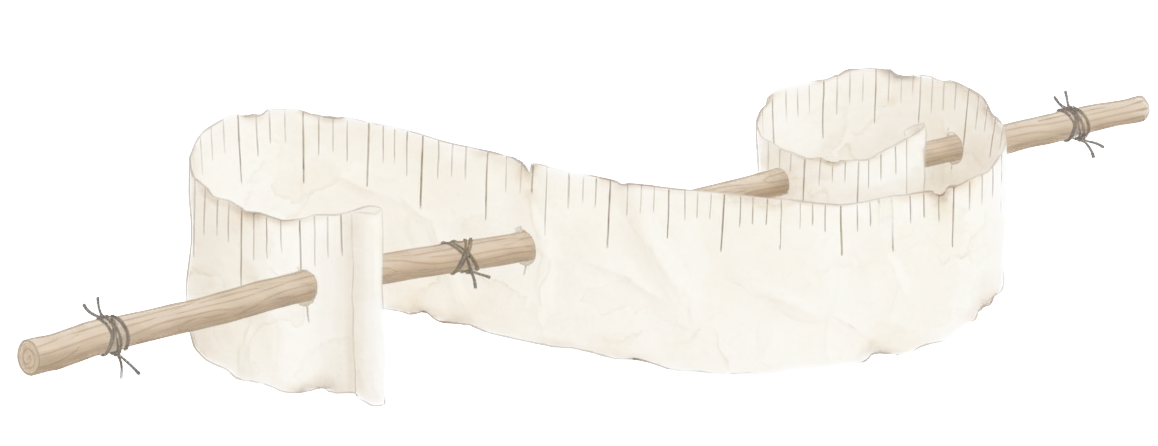
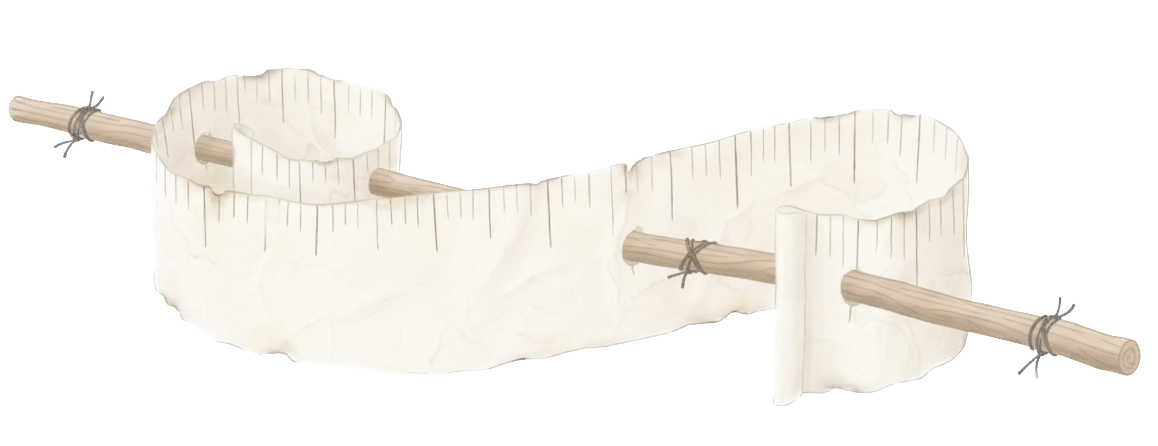
brandlogo image flipped horizontally to form S

diff --git a/sw.js b/sw.js
@@ -1,4 +1,4 @@
-const CACHE_NAME = 'storylines-v54-offline'; // Increment version to force update
+const CACHE_NAME = 'storylines-v55-offline'; // Increment version to force update
 const ASSETS = [
   './',
   './index.html',
